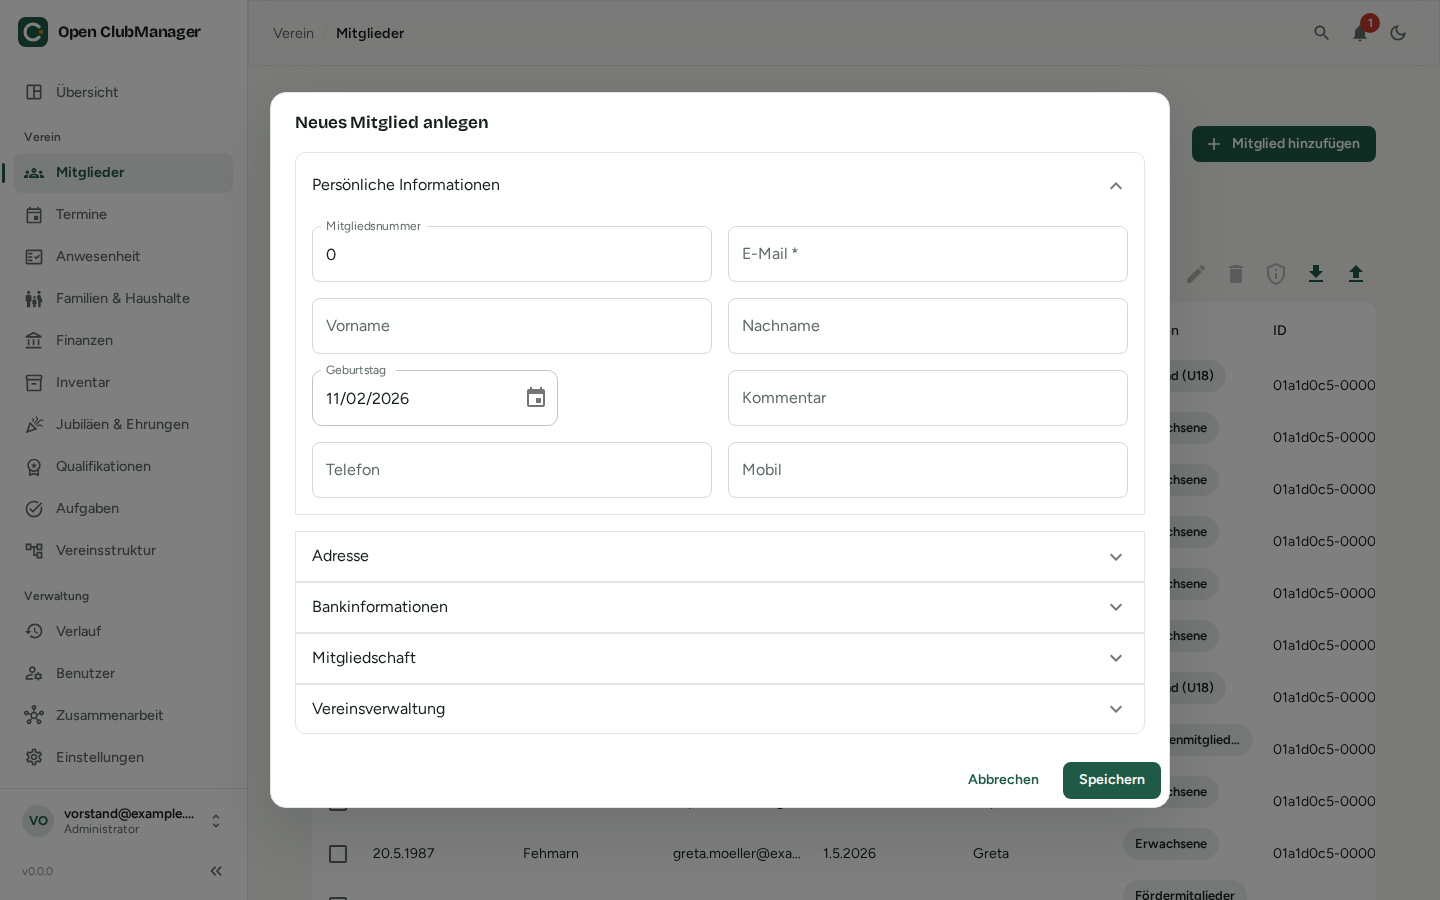
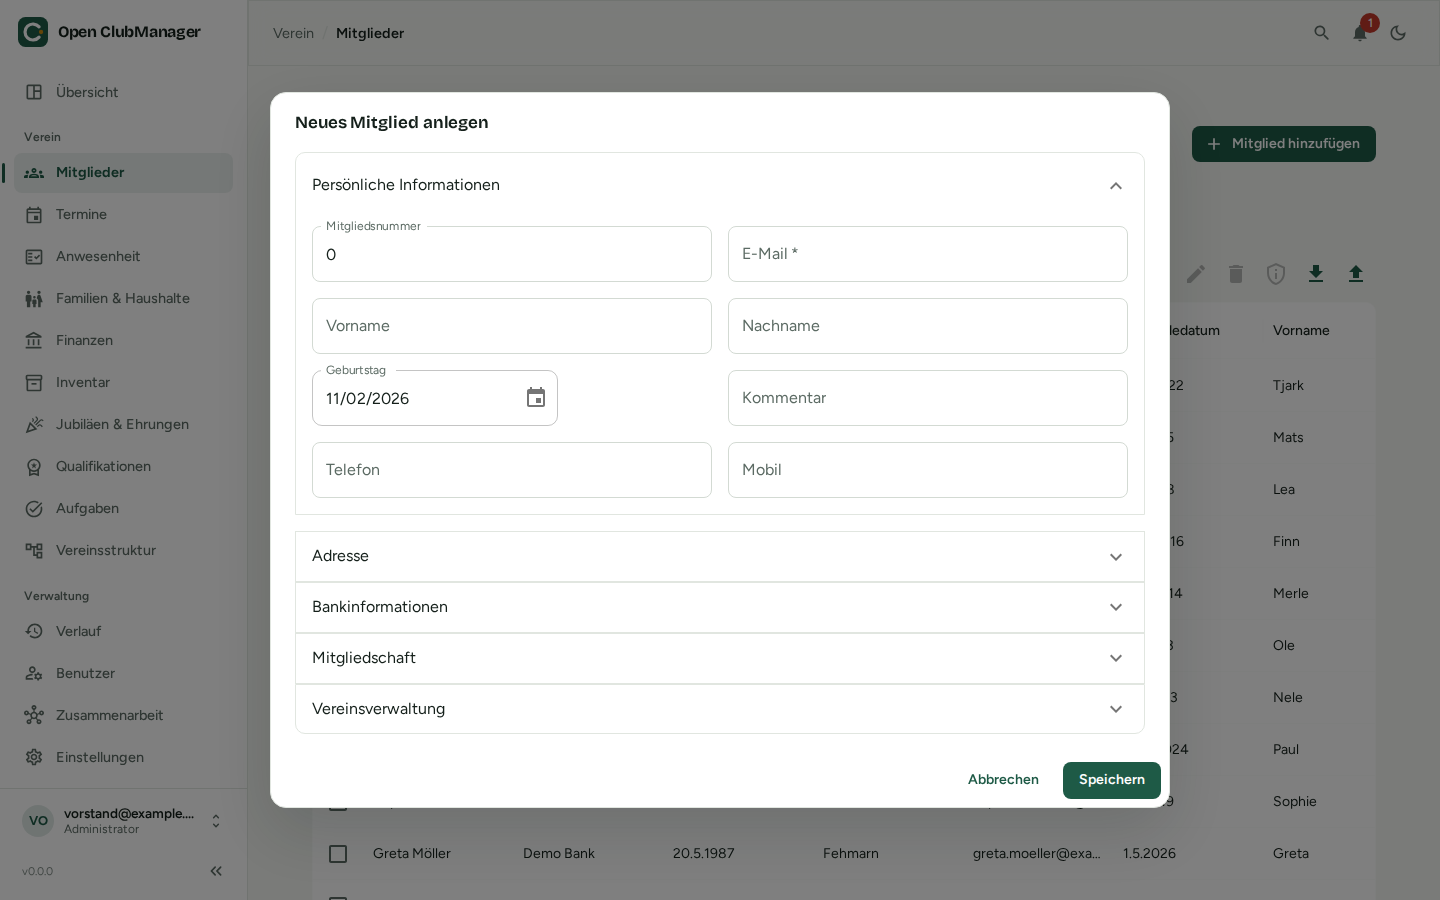
docs: document SEPA direct debit, stabilise screenshot pipeline
- Document the SEPA direct debit runs merged from main (#172) in both
  languages: new section on the Finances page, creditor settings, mandate
  reference in the member dialog; new screenshot finance-direct-debit.
- Regenerate screenshots for the new demo data.
- Screenshot pipeline: disable animations, replace UUIDs and history
  timestamps with stable values and only overwrite a file when pixels
  really changed, so the screenshot workflow only opens a PR for real UI
  changes (two consecutive runs: 54/54 unchanged).

diff --git a/docs/user/funktionen/finanzen.md b/docs/user/funktionen/finanzen.md
@@ -5,7 +5,7 @@ routes:
 
 # Finanzen
 
-Kassenbuch und Mitgliedsbeiträge. Sichtbar nur für **Administratoren** und **Kassenwarte**.
+Kassenbuch, Mitgliedsbeiträge und Beitragseinzug per SEPA-Lastschrift. Sichtbar nur für **Administratoren** und **Kassenwarte**.
 
 ![Kassenbuch](../assets/screenshots/finance.png){ .screenshot }
 
@@ -37,6 +37,41 @@ Statt jede Buchung abzutippen, importierst du den Kontoauszug deiner Bank im For
 ![Mitgliedsbeiträge](../assets/screenshots/finance-fees.png){ .screenshot }
 
 Hier verwaltest du die Beiträge je Mitglied und Jahr: Betrag, Fälligkeitsdatum, Bezahlt-am-Datum und Beschreibung. Offene Beiträge sind als **Ausstehend** markiert.
+
+## Lastschrift (SEPA)
+
+![Lastschriftläufe](../assets/screenshots/finance-direct-debit.png){ .screenshot }
+
+Im Reiter **Lastschrift** ziehst du offene Beiträge per SEPA-Basislastschrift ein. Open ClubManager erstellt dafür eine Datei im Bankformat **pain.008**, die du im Online-Banking hochlädst. Der Reiter erscheint nur, wenn deine Rolle Finanzen bearbeiten darf und – bei der [Zusammenarbeit](../zusammenarbeit/index.md) – dein Gerät Bank- und Finanzdaten bekommt.
+
+### Einmalig einrichten
+
+1. In den [Einstellungen](einstellungen.md#sepa-lastschrift) unter **SEPA-Lastschrift** den Vereinsnamen, die **Gläubiger-ID** (von der Deutschen Bundesbank, z. B. `DE98ZZZ09999999999`), die **IBAN des Vereinskontos** und optional eine **Vorlage für den Verwendungszweck** hinterlegen.
+2. Bei jedem Mitglied, das per Lastschrift zahlt, im [Mitglieder-Dialog](mitglieder.md#mitglied-anlegen-oder-bearbeiten) unter **Bankinformationen** IBAN, **SEPA Mandat Datum** und eine eindeutige **Mandatsreferenz** (z. B. `NW-1001`) eintragen.
+
+### Lastschriftlauf erstellen
+
+Klicke auf **Lastschriftlauf erstellen**. Ein Assistent führt in drei Schritten durch den Lauf:
+
+1. **Beiträge auswählen:** Alle offenen Beiträge werden angezeigt. Beiträge, die sich nicht einziehen lassen (keine IBAN, kein Mandat, keine Mandatsreferenz, ungültige IBAN …), stehen unter **Nicht einziehbar** mit dem Grund – ergänze die Daten beim Mitglied.
+2. **Fälligkeit & Verwendungszweck:** das **Fälligkeitsdatum (Einzug)**. Die Datei muss spätestens einen Bankarbeitstag vorher bei der Bank sein. Darunter siehst du eine Vorschau des Verwendungszwecks.
+3. **Prüfen & exportieren:** Anzahl, Summe, Erst- (FRST) und Folgelastschriften (RCUR) prüfen und **Erstellen & herunterladen**.
+
+Danach sind die Beiträge als **Im Einzug** markiert.
+
+### Nach dem Export
+
+| Schritt | Wo |
+|---|---|
+| Die `.xml`-Datei im Online-Banking hochladen und freigeben | bei deiner Bank |
+| Wenn die Bank eingezogen hat: **Als bezahlt bestätigen** und das Datum angeben – alle Beiträge des Laufs werden als bezahlt markiert | Lastschriftlauf in der Liste |
+| Rücklastschriften beim jeweiligen Beitrag nachtragen | [Mitgliedsbeiträge](#mitgliedsbeitrage) |
+| Lauf versehentlich erstellt? **Lauf stornieren** – die Beiträge sind wieder offen. Die Datei dann nicht mehr hochladen bzw. den Auftrag bei der Bank widerrufen | Lastschriftlauf in der Liste |
+
+Mit **XML-Datei herunterladen** bekommst du die Datei eines Laufs erneut.
+
+!!! info "Erst- und Folgelastschrift"
+    Wird ein Mandat zum ersten Mal genutzt, markiert Open ClubManager die Lastschrift als Erstlastschrift (FRST), danach als Folgelastschrift (RCUR). Das passiert automatisch.
 
 ## Kassenbuch komplett löschen
 

diff --git a/docs/user/funktionen/finanzen.en.md b/docs/user/funktionen/finanzen.en.md
@@ -5,7 +5,7 @@ routes:
 
 # Finances
 
-Cash book and member fees. Only visible to **administrators** and **treasurers**.
+Cash book, member fees and fee collection by SEPA direct debit. Only visible to **administrators** and **treasurers**.
 
 ![Cash book](../assets/screenshots/finance.png){ .screenshot }
 
@@ -37,6 +37,41 @@ Instead of typing every transaction, import your bank's statement in **CAMT.053*
 ![Member fees](../assets/screenshots/finance-fees.png){ .screenshot }
 
 Here you manage the fees per member and year: amount, due date, paid date and description. Open fees are marked as **Unpaid**.
+
+## Direct debit (SEPA)
+
+![Direct debit runs](../assets/screenshots/finance-direct-debit.png){ .screenshot }
+
+In the **Direct debit** tab you collect open fees by SEPA Core direct debit. Open ClubManager creates a file in the **pain.008** bank format that you upload in online banking. The tab only appears if your role may edit finances and, with [collaboration](../zusammenarbeit/index.md), your device receives bank and finance data.
+
+### One-time setup
+
+1. In the [settings](einstellungen.md#sepa-direct-debit) under **SEPA direct debit**, enter the club name, the **creditor identifier** (issued by your national bank, e.g. `DE98ZZZ09999999999`), the **IBAN of the club account** and optionally a **remittance template**.
+2. For every member who pays by direct debit, enter the IBAN, **SEPA Mandate Date** and a unique **mandate reference** (e.g. `NW-1001`) under **Bank Details** in the [member dialog](mitglieder.md#adding-or-editing-a-member).
+
+### Creating a direct debit run
+
+Click **Create direct debit run**. A wizard guides you through three steps:
+
+1. **Select fees:** all open fees are listed. Fees that can't be collected (no IBAN, no mandate, no mandate reference, invalid IBAN …) are listed under **Cannot be collected** with the reason; complete the member's data.
+2. **Due date & remittance:** the **collection date**. The file must reach the bank at least one business day before. Below it you see a preview of the remittance text.
+3. **Review & export:** check the count, total, first (FRST) and recurring (RCUR) collections, then click **Create & download**.
+
+The fees are then marked as **Being collected**.
+
+### After the export
+
+| Step | Where |
+|---|---|
+| Upload the `.xml` file in online banking and authorise it | at your bank |
+| Once the bank has collected: **Confirm as paid** and enter the date; all fees of the run are marked as paid | the run in the list |
+| Record returned debits on the individual fee | [Member fees](#member-fees) |
+| Created a run by mistake? **Cancel run** and the fees are open again. Then don't upload the file, or revoke the order at the bank | the run in the list |
+
+**Download XML file** gives you a run's file again.
+
+!!! info "First and recurring collections"
+    When a mandate is used for the first time, Open ClubManager marks the debit as a first collection (FRST), afterwards as recurring (RCUR). This happens automatically.
 
 ## Deleting the full ledger
 

diff --git a/docs/user/mitwirken/dokumentation.md b/docs/user/mitwirken/dokumentation.md
@@ -64,7 +64,7 @@ npm run docs:build        # wie in CI: Coverage-Prüfung + strenger Build
 npm run docs:screenshots  # alle Screenshots neu erzeugen (braucht Go und Node)
 ```
 
-`docs:screenshots` startet ein eigenes Backend und Frontend auf den Ports 3101 und 5273 mit einer Wegwerf-Datenbank, richtet sie mit Beispieldaten ein und fotografiert alle Seiten. Deine eigene Installation bleibt unberührt. Das passiert einmal je Sprache. Damit sich Screenshots nur ändern, wenn sich die Oberfläche ändert, ist die Uhr im Browser eingefroren, Animationen sind abgeschaltet, zufällige IDs und Zeitstempel in Tabellen werden durch feste Werte ersetzt, und eine Datei wird nur überschrieben, wenn sich mehr als 0,1 % der Pixel geändert haben. `DOCS_LANGUAGES=en` erzeugt nur eine Sprache.
+`docs:screenshots` startet ein eigenes Backend und Frontend auf den Ports 3101 und 5273 mit einer Wegwerf-Datenbank, richtet sie mit Beispieldaten ein und fotografiert alle Seiten. Deine eigene Installation bleibt unberührt. Das passiert einmal je Sprache. Damit sich Screenshots nur ändern, wenn sich die Oberfläche ändert, ist die Uhr im Browser eingefroren, Animationen sind abgeschaltet, zufällige IDs und Zeitstempel in Tabellen werden durch feste Werte ersetzt, und eine Datei wird nur überschrieben, wenn sich Pixel über die Farbtoleranz für Kantenglättung hinaus geändert haben. `DOCS_LANGUAGES=en` erzeugt nur eine Sprache.
 
 ## Schreibstil
 

diff --git a/docs/user/mitwirken/dokumentation.en.md b/docs/user/mitwirken/dokumentation.en.md
@@ -63,7 +63,7 @@ npm run docs:build        # as in CI: coverage check + strict build
 npm run docs:screenshots  # regenerate all screenshots (needs Go and Node)
 ```
 
-`docs:screenshots` starts its own backend and frontend on ports 3101 and 5273 with a throwaway database, sets it up with demo data and captures every page, once per language. Your own installation is not touched. So that screenshots only change when the UI changes, the browser clock is frozen, animations are off, random IDs and timestamps in tables are replaced by fixed values, and a file is only overwritten if more than 0.1 % of its pixels changed. `DOCS_LANGUAGES=en` captures only one language.
+`docs:screenshots` starts its own backend and frontend on ports 3101 and 5273 with a throwaway database, sets it up with demo data and captures every page, once per language. Your own installation is not touched. So that screenshots only change when the UI changes, the browser clock is frozen, animations are off, random IDs and timestamps in tables are replaced by fixed values, and a file is only overwritten if pixels changed beyond the colour tolerance for anti-aliasing. `DOCS_LANGUAGES=en` captures only one language.
 
 ## Writing style
 

diff --git a/docs/user/funktionen/einstellungen.md b/docs/user/funktionen/einstellungen.md
@@ -15,6 +15,15 @@ Zeigt, welche Datenbankdatei Open ClubManager verwendet. Du kannst hier auf eine
 
 Deutsch, Englisch oder Französisch. Die Einstellung gilt für dieses Gerät.
 
+## SEPA-Lastschrift
+
+Nur sichtbar für Administratoren und Kassenwarte. Hier hinterlegst du die Daten für den [Beitragseinzug per Lastschrift](finanzen.md#lastschrift-sepa):
+
+- **Name des Vereins (Zahlungsempfänger)**
+- **Gläubiger-ID** – von der Deutschen Bundesbank vergeben, z. B. `DE98ZZZ09999999999`
+- **IBAN des Vereinskontos** und optional die **BIC** (für Inlandszahlungen nicht nötig)
+- **Vorlage Verwendungszweck** – mit Platzhaltern, die beim Lauf durch die Daten des Mitglieds und Beitrags ersetzt werden
+
 ## Zusammenarbeit
 
 Kurzinfo zum Stand der [Zusammenarbeit](../zusammenarbeit/index.md) und Link zu ihren Einstellungen.

diff --git a/docs/user/funktionen/mitglieder.md b/docs/user/funktionen/mitglieder.md
@@ -35,7 +35,7 @@ Die Angaben sind in aufklappbare Abschnitte gegliedert:
 |---|---|
 | **Persönliche Informationen** | Mitgliedsnummer, E-Mail (Pflichtfeld), Vor- und Nachname, Geburtstag, Telefon, Mobil, Kommentar |
 | **Adresse** | Straße, PLZ, Stadt, Bundesland |
-| **Bankinformationen** | Kontoinhaber, IBAN, BIC, Bank, Datum des SEPA-Mandats |
+| **Bankinformationen** | Kontoinhaber, IBAN, BIC, Bank, Datum des SEPA-Mandats, Mandatsreferenz (für die [Lastschrift](finanzen.md#lastschrift-sepa), bis 35 Zeichen ohne Leerzeichen, eindeutig) |
 | **Mitgliedschaft** | Eintritts- und Austrittsdatum |
 | **Vereinsverwaltung** | Zuordnung zu [Abteilungen, Gruppen und Rollen](vereinsstruktur.md) |
 | **Familie & Erziehungsberechtigte** | [Haushalt](haushalte.md) und Erziehungsberechtigte (bei Minderjährigen) |

diff --git a/docs/user/funktionen/index.md b/docs/user/funktionen/index.md
@@ -9,7 +9,7 @@ Alle Bereiche von Open ClubManager im Überblick. Welche du siehst, hängt von d
 | [Familien & Haushalte](haushalte.md) | Haushalte mit Hauptzahler, Erziehungsberechtigte |
 | [Termine](termine.md) | Vereinskalender mit Serien und Kalender-Export |
 | [Anwesenheit](anwesenheit.md) | Trainingsbeteiligung erfassen und auswerten |
-| [Finanzen](finanzen.md) | Kassenbuch, Mitgliedsbeiträge, Kontoauszug-Import |
+| [Finanzen](finanzen.md) | Kassenbuch, Mitgliedsbeiträge, SEPA-Lastschrift, Kontoauszug-Import |
 | [Inventar](inventar.md) | Gegenstände, Ausleihen, Prüfungen und Wartung |
 | [Jubiläen & Ehrungen](ehrungen.md) | Mitgliedsjubiläen, runde Geburtstage, Ehrungen |
 | [Qualifikationen](qualifikationen.md) | Lizenzen, Erste Hilfe, Führungszeugnisse mit Ablaufwarnung |

diff --git a/docs/user/funktionen/index.en.md b/docs/user/funktionen/index.en.md
@@ -9,7 +9,7 @@ All areas of Open ClubManager at a glance. Which ones you see depends on your [r
 | [Families & households](haushalte.md) | Households with a main payer, guardians |
 | [Events](termine.md) | Club calendar with recurring events and calendar export |
 | [Attendance](anwesenheit.md) | Record and analyse training attendance |
-| [Finances](finanzen.md) | Cash book, member fees, bank statement import |
+| [Finances](finanzen.md) | Cash book, member fees, SEPA direct debit, bank statement import |
 | [Inventory](inventar.md) | Items, loans, inspections and maintenance |
 | [Anniversaries & honors](ehrungen.md) | Membership anniversaries, round birthdays, honors |
 | [Qualifications](qualifikationen.md) | Licences, first aid, police clearance certificates with expiry warnings |

diff --git a/docs/user/funktionen/einstellungen.en.md b/docs/user/funktionen/einstellungen.en.md
@@ -15,6 +15,15 @@ Shows which database file Open ClubManager uses. You can switch to another file 
 
 German, English or French. The setting applies to this device.
 
+## SEPA direct debit
+
+Only visible to administrators and treasurers. Here you enter the details for [collecting fees by direct debit](finanzen.md#direct-debit-sepa):
+
+- **Club name (creditor)**
+- **Creditor identifier**, issued by your national bank, e.g. `DE98ZZZ09999999999`
+- **IBAN of the club account** and optionally the **BIC** (not needed for domestic payments)
+- **Remittance template**, with placeholders that are replaced by the member's and fee's data in each run
+
 ## Collaboration
 
 A short status of [collaboration](../zusammenarbeit/index.md) and a link to its settings.

diff --git a/docs/user/funktionen/mitglieder.en.md b/docs/user/funktionen/mitglieder.en.md
@@ -35,7 +35,7 @@ The details are grouped into collapsible sections:
 |---|---|
 | **Personal Information** | membership number, email (required), first and last name, birthday, phone, mobile, comment |
 | **Address** | street, postal code, city, state |
-| **Bank Details** | account holder, IBAN, BIC, bank, date of the SEPA mandate |
+| **Bank Details** | account holder, IBAN, BIC, bank, date of the SEPA mandate, mandate reference (for [direct debit](finanzen.md#direct-debit-sepa), up to 35 characters without spaces, unique) |
 | **Membership** | entry and exit date |
 | **Club Entities** | assignment to [sections, groups and roles](vereinsstruktur.md) |
 | **Family & guardians** | [household](haushalte.md) and guardians (for minors) |
